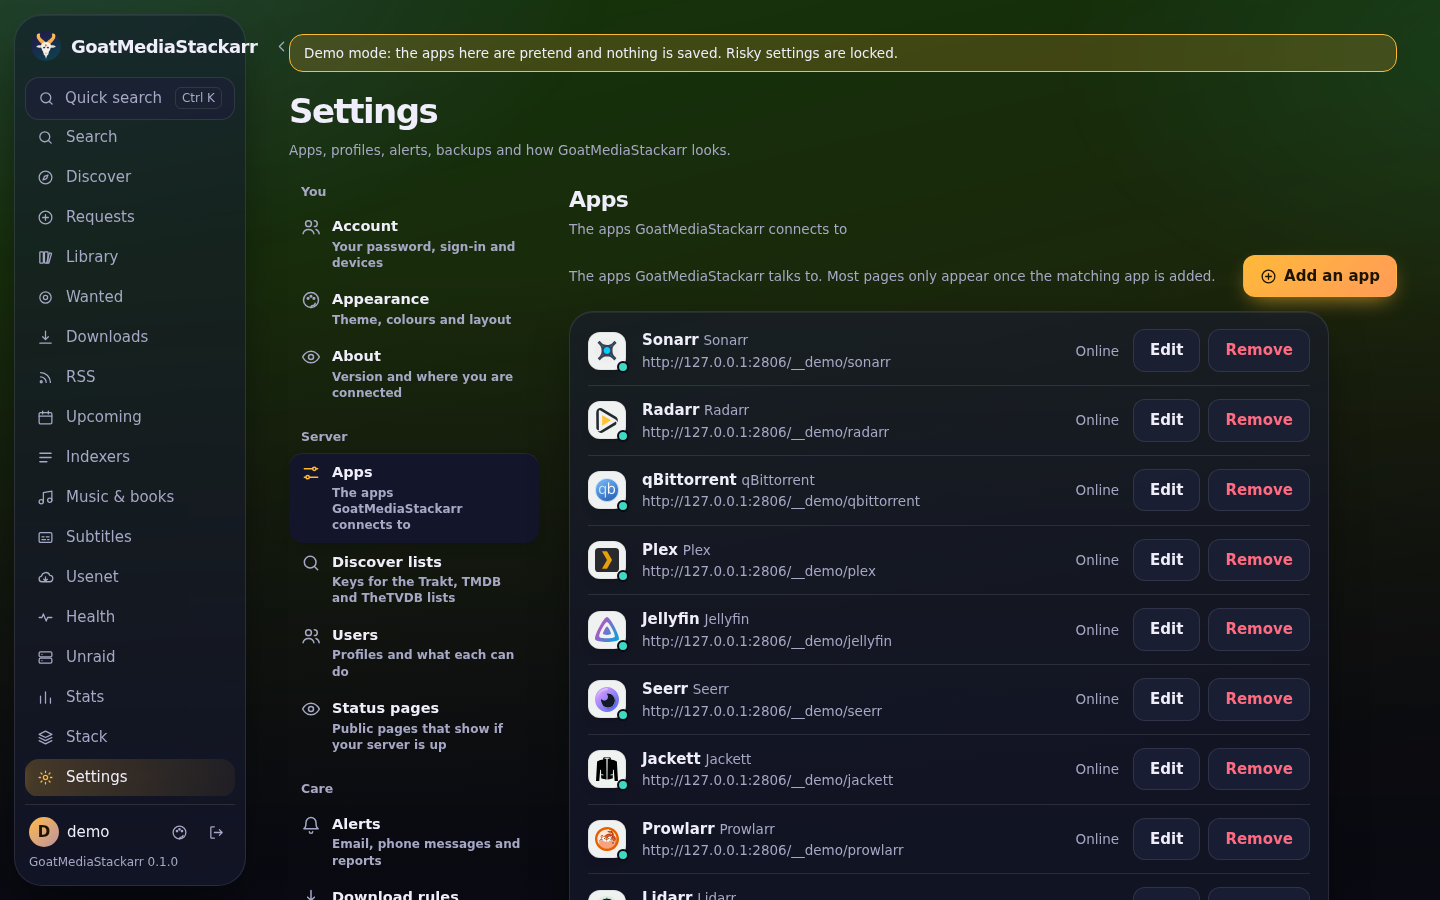
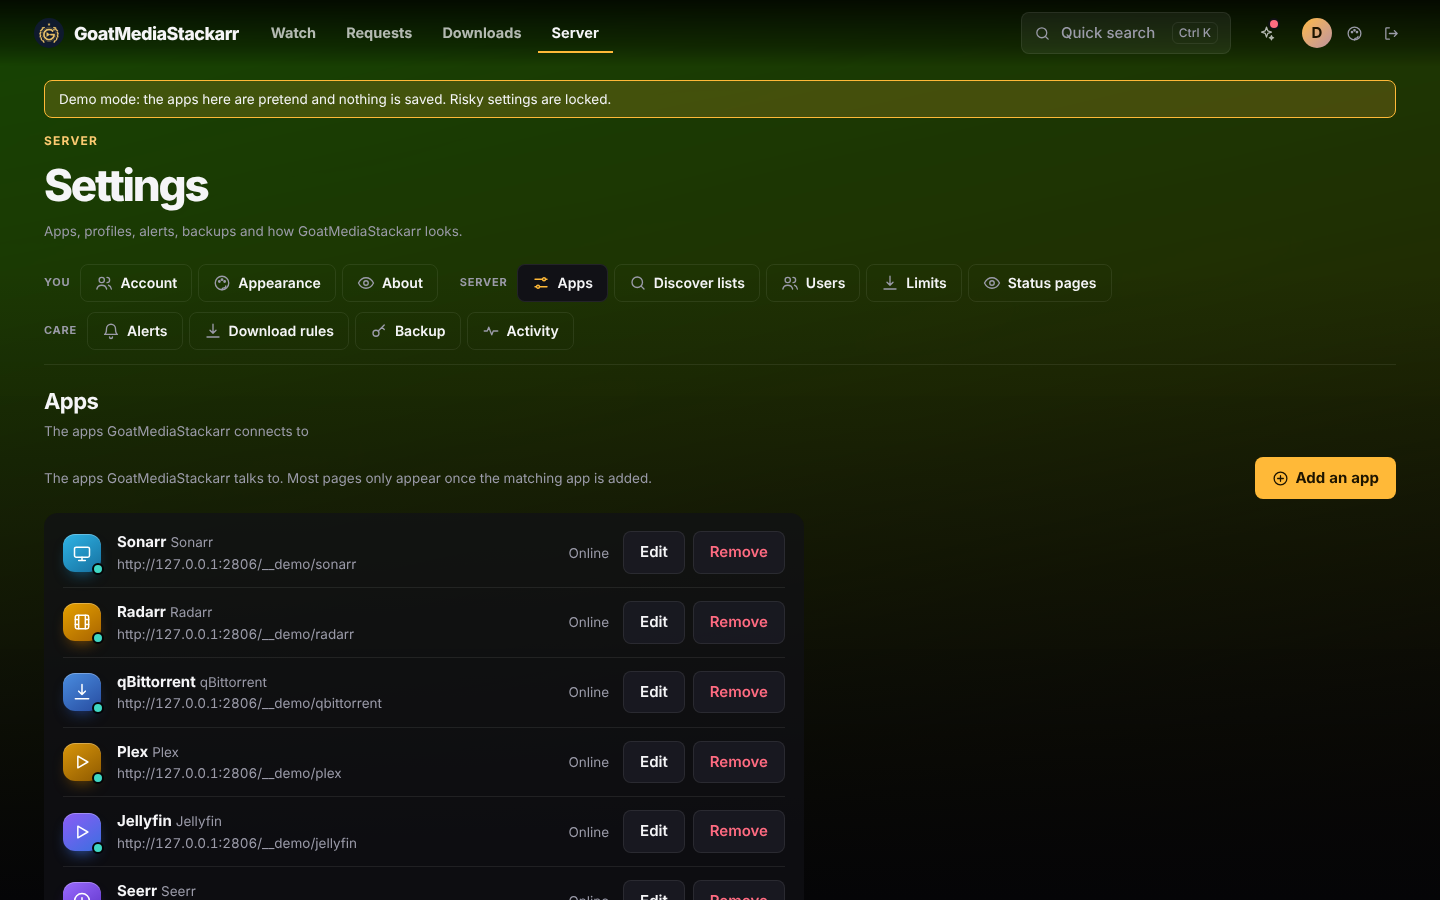
New screenshots in every style; phone layout fixes (wide selects, setup checklist); demo pictures for people; hide broken pictures
Claude-Session: https://claude.ai/code/session_01MZJJ6uf2L6wQ4qhVCAmc6f

diff --git a/scripts/screenshots.js b/scripts/screenshots.js
@@ -9,10 +9,6 @@ const PORT = 2806, BASE = `http://127.0.0.1:${PORT}`;
 const OUT = path.join(__dirname, '..', 'docs', 'screenshots');
 const sleep = ms => new Promise(r => setTimeout(r, ms));
 
-const PAGES = [
-  ['dash', 'dashboard'], ['disc', 'discover'], ['lib', 'library'], ['dl', 'downloads'], ['rq', 'requests'],
-  ['up', 'upcoming'], ['idx', 'indexers'], ['hl', 'health'], ['stats', 'stats'], ['nzb', 'usenet'], ['goat', 'stack'],
-];
 
 // Pretend container status for the Stack page: VPN connected, everything wired, logins made.
 function goatDemo() {
@@ -37,57 +33,66 @@ function goatDemo() {
   try {
     for (let i = 0; i < 100; i++) { try { if ((await fetch(BASE + '/api/health')).ok) break; } catch {} await sleep(200); }
     const browser = await chromium.launch();
-    const shot = async (page, name, fullPage = false) => { await sleep(2500); await page.screenshot({ path: path.join(OUT, name + '.png'), fullPage }); console.log('saved', name); };
+    const shot = async (page, name, fullPage = false) => { await sleep(2200); await page.screenshot({ path: path.join(OUT, name + '.png'), fullPage }); console.log('saved', name); };
+    const signIn = async ctx => {
+      const r = await ctx.request.post(BASE + '/api/login', { data: { name: 'demo', password: 'demo-mediahub' } });
+      if (!r.ok()) throw new Error('demo sign-in failed: ' + r.status());
+    };
+    // A browser with a chosen style (Appearance → Style) and theme.
+    const open = async (style, o = {}) => {
+      const ctx = await browser.newContext({ viewport: o.phone ? { width: 390, height: 844 } : { width: 1440, height: 900 }, deviceScaleFactor: o.phone ? 2 : 1,
+        isMobile: !!o.phone, hasTouch: !!o.phone, colorScheme: o.light ? 'light' : 'dark' });
+      await ctx.addInitScript(([st, th]) => { try { localStorage.setItem('mh-ui', JSON.stringify({ style: st, theme: th, seenVer: 'demo' })); } catch {} }, [style, o.light ? 'light' : 'dark']);
+      await signIn(ctx);
+      const page = await ctx.newPage(); page.on('pageerror', e => { throw e; });
+      return { ctx, page };
+    };
+    const go = async (page, url) => { await page.goto(BASE + url); await sleep(1800); };
 
     // Sign-in page, before signing in.
     const anon = await browser.newContext({ viewport: { width: 1440, height: 900 }, deviceScaleFactor: 1, colorScheme: 'dark' });
     const lp = await anon.newPage(); await lp.goto(BASE); await shot(lp, 'login'); await anon.close();
 
-    const signIn = async ctx => {
-      const r = await ctx.request.post(BASE + '/api/login', { data: { name: 'demo', password: 'demo-mediahub' } });
-      if (!r.ok()) throw new Error('demo sign-in failed: ' + r.status());
-    };
+    // A new install opens on the Stack page with its setup checklist. After "I'm done" it opens on the dashboard.
+    { const { ctx, page } = await open('cinema'); await go(page, '/'); await shot(page, 'stack-setup'); await ctx.close(); }
 
-    // Desktop pages.
-    const ctx = await browser.newContext({ viewport: { width: 1440, height: 900 }, deviceScaleFactor: 1, colorScheme: 'dark' });
-    await signIn(ctx);
-    const page = await ctx.newPage(); await page.goto(BASE); await sleep(1500);
-    // A new install opens on the Stack page with its setup checklist.
-    await shot(page, 'stack-setup');
-    for (const [tab, name] of PAGES) {
-      const btn = page.locator(`[data-t="${tab}"]:visible`).first();
-      if (!(await btn.count())) { console.log('no tab', tab); continue; }
-      await btn.click(); await shot(page, name, tab === 'goat');
-      // Every tab has its own address: the address bar must follow the click.
-      const want = { dash: '/', disc: '/discover', lib: '/library', dl: '/downloads', rq: '/requests', up: '/upcoming', idx: '/indexers', hl: '/health', stats: '/stats', nzb: '/usenet', goat: '/stack' }[tab];
-      const got = new URL(page.url()).pathname;
-      if (want && got !== want) throw new Error(`after opening ${tab} the address is ${got}, expected ${want}`);
+    // The dashboard in each of the four styles, on a computer and on a phone.
+    for (const st of ['cinema', 'dash', 'glass', 'compact']) {
+      let { ctx, page } = await open(st); await go(page, '/dashboard'); await shot(page, 'style-' + st); await ctx.close();
+      ({ ctx, page } = await open(st, { phone: true })); await go(page, '/dashboard'); await shot(page, 'phone-' + st); await ctx.close();
     }
-    // Opening an address directly shows that page, and Back returns to the previous one.
-    await page.goto(BASE + '/settings/apps'); await sleep(1500);
-    if (!(await page.locator('[data-t="set"][aria-current="page"]').count())) throw new Error('/settings/apps did not open Settings');
-    await shot(page, 'settings-apps');
-    await page.locator('[data-t="dl"]:visible').first().click(); await sleep(800);
-    await page.goBack(); await sleep(800);
-    if (new URL(page.url()).pathname !== '/settings/apps') throw new Error('Back did not return to /settings/apps');
-    // A show or movie opened from the library gets its own address; Back closes it; the address opens it again.
-    await page.goto(BASE + '/library'); await sleep(2500);
-    await page.locator('#g [data-v]').first().click(); await sleep(1500);
+    const light = await open('dash', { light: true }); await go(light.page, '/downloads'); await shot(light.page, 'style-dash-light'); await light.ctx.close();
+
+    // Every main page, in the Cinema style. Every page has its own address.
+    const { ctx, page } = await open('cinema');
+    const PAGES = [['/discover', 'discover'], ['/library', 'library'], ['/downloads', 'downloads'], ['/requests', 'requests'], ['/upcoming', 'upcoming'],
+      ['/indexers', 'indexers'], ['/health', 'health'], ['/stats', 'stats'], ['/usenet', 'usenet'], ['/stack', 'stack'], ['/settings/apps', 'settings-apps']];
+    for (const [url, name] of PAGES) {
+      await go(page, url);
+      if (new URL(page.url()).pathname !== url) throw new Error(`${url} moved to ${new URL(page.url()).pathname}`);
+      await shot(page, name, name === 'stack');
+    }
+    // The menu as a bar across the top, with a group open.
+    await go(page, '/dashboard'); await page.hover('.ng:nth-child(3) .ngh'); await sleep(400); await page.screenshot({ path: path.join(OUT, 'menu-cinema.png') }); console.log('saved menu-cinema');
+    // A movie opened from the library: its own address, cast and More like this; Back closes it.
+    await go(page, '/library'); await page.locator('#g [data-v]').first().click(); await sleep(1500);
     const item = new URL(page.url()).pathname;
     if (!/^\/library\/(tv|movies)\/[^/]+\/[^/]+$/.test(item)) throw new Error(`opening a library item gave the address ${item}`);
-    if (!(await page.locator('.ov').count())) throw new Error('the library item did not open');
     await shot(page, 'library-item');
     await page.goBack(); await sleep(800);
     if (await page.locator('.ov').count()) throw new Error('Back did not close the library item');
-    if (new URL(page.url()).pathname !== '/library') throw new Error('Back from an item did not return to /library');
-    await page.goto(BASE + item); await sleep(3000);
-    if (!(await page.locator('.ov').count())) throw new Error(`opening ${item} directly did not show the item`);
+    // A title page and an actor's filmography.
+    await page.evaluate(() => titlePage('movie', 5001, {})); await shot(page, 'title');
+    await page.locator('.ov .cst').first().click(); await shot(page, 'person');
+    await page.evaluate(() => document.querySelectorAll('.ov').forEach(o => o.close && o.close()));
+    // What's new and the style picker.
+    await page.evaluate(() => whatsNew()); await shot(page, 'whats-new');
+    await page.evaluate(() => document.querySelectorAll('.ov').forEach(o => o.close && o.close()));
+    await page.evaluate(() => appearance()); await shot(page, 'appearance');
     await ctx.close();
 
-    // Phone.
-    const phone = await browser.newContext({ viewport: { width: 390, height: 844 }, deviceScaleFactor: 2, isMobile: true, hasTouch: true, colorScheme: 'dark' });
-    await signIn(phone);
-    const pp = await phone.newPage(); await pp.goto(BASE); await shot(pp, 'phone-dashboard');
+    // Phone: the menu sheet.
+    const ph = await open('cinema', { phone: true }); await go(ph.page, '/dashboard'); await ph.page.click('#dm'); await shot(ph.page, 'phone-menu'); await ph.ctx.close();
     await browser.close();
   } finally { ui.kill(); }
 })().catch(e => { console.error(e); process.exit(1); });

diff --git a/ui/lib/demo.js b/ui/lib/demo.js
@@ -290,21 +290,25 @@ function create(opts = {}) {
     }
     if (type === 'seerr') {
       const data = m === 'POST' ? await body(req) : {};
+      // Pictures for the pretend titles and people, from this same server (so the demo shows posters without TMDB).
+      const mount = req.url.slice(0, Math.max(0, req.url.length - String(rest).length)), pic = t => `http://${req.headers.host}${mount}/seerr/poster/${encodeURIComponent(t)}`;
+      if (sub.startsWith('/poster/')) { const t = decodeURIComponent(sub.slice(8)), hue = [...t].reduce((a, c) => (a * 31 + c.charCodeAt(0)) % 360, 7);
+        res.writeHead(200, { 'Content-Type': 'image/svg+xml', 'Cache-Control': 'max-age=3600' }); return res.end(decodeURIComponent(svg(t, hue).split(',')[1])); }
       if (sub === '/api/v1/status') return json(res, { version: '2.0.0.demo' });
       if (sub === '/api/v1/search') return json(res, { results: ['Hidden Valley', 'Hidden Harbor', 'Paper Kingdoms'].filter(t => t.toLowerCase().includes(String(q.get('query') || '').toLowerCase())).map((t, i) => (i === 1 ? { mediaType: 'movie', id: 800 + i, title: t, releaseDate: '2024-03-01', overview: 'Demo result.', posterPath: '' } : { mediaType: 'tv', id: 800 + i, name: t, firstAirDate: '2022-05-01', overview: 'Demo result.', posterPath: '' })) });
       let r = sub.match(/^\/api\/v1\/tv\/(\d+)$/);
-      const cast = [['Ana Reyes', 'Captain'], ['Tom Okafor', 'Doctor'], ['Lin Park', 'Pilot']].map(([name, character], i) => ({ id: 9001 + i, name, character, profilePath: '' }));
+      const cast = [['Ana Reyes', 'Captain'], ['Tom Okafor', 'Doctor'], ['Lin Park', 'Pilot']].map(([name, character], i) => ({ id: 9001 + i, name, character, profilePath: pic(name) }));
       // "More like this": two titles in the library and one that is not.
       const rec = sub.match(/^\/api\/v1\/(movie|tv)\/(\d+)\/(recommendations|similar)$/);
       if (rec) return json(res, { page: 1, results: rec[1] === 'movie'
-        ? [{ id: 5002, mediaType: 'movie', title: 'Salt & Ember', releaseDate: '2023-02-01', posterPath: '/salt.jpg', voteAverage: 6.9 }, { id: 6100, mediaType: 'movie', title: 'Far Lantern', releaseDate: '2021-07-09', posterPath: '', voteAverage: 7.2, mediaInfo: { status: 2 } }]
-        : [{ id: 7001, mediaType: 'tv', name: 'Demo show 7001', firstAirDate: '2020-01-01', posterPath: '', voteAverage: 7.7 }] });
+        ? [{ id: 5002, mediaType: 'movie', title: 'Salt & Ember', releaseDate: '2023-02-01', posterPath: '/salt.jpg', voteAverage: 6.9 }, { id: 6100, mediaType: 'movie', title: 'Far Lantern', releaseDate: '2021-07-09', posterPath: pic('Far Lantern'), voteAverage: 7.2, mediaInfo: { status: 2 } }]
+        : [{ id: 7001, mediaType: 'tv', name: 'Demo show 7001', firstAirDate: '2020-01-01', posterPath: pic('Demo show 7001'), voteAverage: 7.7 }] });
       const pr = sub.match(/^\/api\/v1\/person\/(\d+)(\/combined_credits)?$/);
-      if (pr && !pr[2]) return +pr[1] > 9003 ? json(res, { message: 'Not found' }, 404) : json(res, { id: +pr[1], name: cast[+pr[1] - 9001].name, biography: 'An invented actor for the demo.', birthday: '1984-06-02', placeOfBirth: 'Lisbon, Portugal', profilePath: '/ana.jpg', knownForDepartment: 'Acting' });
+      if (pr && !pr[2]) return +pr[1] > 9003 ? json(res, { message: 'Not found' }, 404) : json(res, { id: +pr[1], name: cast[+pr[1] - 9001].name, biography: 'An invented actor for the demo.', birthday: '1984-06-02', placeOfBirth: 'Lisbon, Portugal', profilePath: pic(cast[+pr[1] - 9001].name), knownForDepartment: 'Acting' });
       if (pr) return json(res, { id: +pr[1],
-        cast: [{ id: 5001, mediaType: 'movie', title: 'Demo movie 5001', releaseDate: '2025-04-11', character: cast[0].character, posterPath: '', voteAverage: 7.6, voteCount: 900 },
-          { id: 7002, mediaType: 'tv', name: 'Demo show', firstAirDate: '2022-05-01', character: 'Herself', posterPath: '', voteAverage: 8.1, voteCount: 400 },
-          { id: 6200, mediaType: 'movie', title: 'Next Year', releaseDate: '', character: 'Lead', posterPath: '', voteCount: 0 }],
+        cast: [{ id: 5001, mediaType: 'movie', title: 'Demo movie 5001', releaseDate: '2025-04-11', character: cast[0].character, posterPath: pic('Demo movie 5001'), voteAverage: 7.6, voteCount: 900 },
+          { id: 7002, mediaType: 'tv', name: 'Demo show', firstAirDate: '2022-05-01', character: 'Herself', posterPath: pic('Demo show'), voteAverage: 8.1, voteCount: 400 },
+          { id: 6200, mediaType: 'movie', title: 'Next Year', releaseDate: '', character: 'Lead', posterPath: '/next.jpg', voteCount: 0 }],
         crew: [{ id: 5001, mediaType: 'movie', title: 'Demo movie 5001', releaseDate: '2025-04-11', job: 'Producer', posterPath: '' }, { id: 1, mediaType: 'person', name: 'skip me' }] });
       const mv = sub.match(/^\/api\/v1\/movie\/(\d+)$/);
       if (mv) return json(res, { id: +mv[1], title: 'Demo movie ' + mv[1], releaseDate: '2025-04-11', overview: 'An invented movie for the demo.', tagline: 'Nothing here is real.', posterPath: '', backdropPath: '', voteAverage: 7.6, runtime: 118,

diff --git a/ui/public/index.html b/ui/public/index.html
@@ -437,6 +437,8 @@ main.sx #m .panel{max-width:760px!important}
 <link rel="stylesheet" href="/statuskit.css"><link rel="stylesheet" href="/cinema.css"><link rel="stylesheet" href="/styles.css"><script src="/statuskit.js"></script><script src="/scenes.js"></script><script src="/cinema.js"></script><script src="/qr.js"></script>
 <script>
 const $=s=>document.querySelector(s);
+// A picture that cannot load (an address that is gone, no internet) leaves an empty space instead of a broken-image sign.
+document.addEventListener('error',e=>{const t=e.target;if(t&&t.tagName==='IMG')t.classList.add('nopic')},true);
 let liveFns=[];
 const tick=(f,ms)=>{liveFns.push(f);return setInterval(()=>{if(!document.hidden)f()},ms)};
 document.addEventListener('visibilitychange',()=>{if(!document.hidden)liveFns.forEach(f=>{try{f()}catch{}})});
@@ -2560,7 +2562,7 @@ async function goatView(){
     :vpn.enabled?`<span class="pill bad">${vpn.state==='waiting'?'Waiting for a VPN file':vpn.state==='connecting'?'Connecting…':'Not connected'}</span>`:'<span class="pill">Off</span>';
   const hasPlex=st.engines.some(e=>e.key==='plex'),plexOk=steps.plex&&steps.plex.ok,N=st.counts||{};
   const done=S.setup&&S.setup.done;
-  const check=(ok,label,hint)=>`<div class="row" style="gap:10px;margin:6px 0"><span class="pill ${ok?'ok':''}" style="min-width:26px;justify-content:center">${ok?ic('check'):'·'}</span><span><b>${label}</b>${hint?`<div class="mute">${hint}</div>`:''}</span></div>`;
+  const check=(ok,label,hint)=>`<div class="row" style="gap:10px;margin:8px 0;flex-wrap:nowrap;align-items:flex-start"><span class="pill ${ok?'ok':''}" style="min-width:30px;display:inline-grid;place-items:center;flex:none;margin-top:1px">${ok?ic('check'):'·'}</span><span class="grow"><b>${label}</b>${hint?`<div class="mute">${hint}</div>`:''}</span></div>`;
   // Linking Plex to an account has its own item below, so it does not hold back this one.
   const wSteps=Object.entries(steps).filter(([k])=>k!=='plex');
   const wiredAll=!wiring&&wSteps.length>0&&wSteps.every(([,x])=>x.ok);

diff --git a/ui/test/profile.test.js b/ui/test/profile.test.js
@@ -102,7 +102,8 @@ test('person page: who they are and everything they were in, newest first, with 
     const { k } = w;
     const p = (await k.get('/api/person?id=9001')).data;
     assert.equal(p.name, 'Ana Reyes'); assert.equal(p.born, '1984-06-02'); assert.equal(p.place, 'Lisbon, Portugal'); assert.equal(p.known, 'Acting');
-    assert.equal(p.photo, 'https://image.tmdb.org/t/p/h632/ana.jpg'); assert.ok(p.seerr);
+    assert.match(p.photo, /^http:\/\/127\.0\.0\.1:\d+\/seerr\/poster\/Ana%20Reyes$/, 'a full address is passed on as it is'); assert.ok(p.seerr);
+    assert.equal(p.credits.find(x => x.id === 6200).poster, 'https://image.tmdb.org/t/p/w342/next.jpg', 'a TMDB path becomes a TMDB address');
     assert.deepEqual(p.credits.map(x => [x.type, x.id]), [['movie', 6200], ['movie', 5001], ['tv', 7002]], 'not dated yet first, then newest; people are left out');
     const mv = p.credits.find(x => x.id === 5001);
     assert.equal(mv.role, 'Captain, Producer'); assert.equal(mv.inLib, true); assert.equal(p.credits.find(x => x.id === 6200).inLib, false);

diff --git a/ui/public/styles.css b/ui/public/styles.css
@@ -14,9 +14,11 @@ html[data-rail=min] .ng{padding:4px 0;border-bottom:1px solid var(--line)}
 .phg{display:flex;flex-direction:column}
 .phk{font-size:12px;font-weight:720;letter-spacing:.1em;text-transform:uppercase;color:var(--link);margin-bottom:2px}
 .mg{flex-basis:100%;margin-top:6px}.mg .ngh{padding:8px 2px 6px}
+.row>label,.row>select{min-width:0;max-width:100%}select{max-width:100%;text-overflow:ellipsis}
 .brand .t{min-width:0;overflow:hidden;text-overflow:ellipsis;white-space:nowrap}
 .qs span{white-space:nowrap;overflow:hidden;text-overflow:ellipsis}
 @media(max-width:860px){.side .wn,.side .ver{display:none}}
+img.nopic{visibility:hidden}
 /* What's new */
 .wnh{display:flex;gap:14px;align-items:center;margin:6px 0 18px}
 .wni{display:grid;place-items:center;width:48px;height:48px;border-radius:16px;background:color-mix(in srgb,var(--accent) 18%,transparent);color:var(--accent);flex:none}.wni .ic{width:26px;height:26px}

diff --git a/android/app/src/test/java/com/bdlnaredi/goatstack/ScreensTest.kt b/android/app/src/test/java/com/bdlnaredi/goatstack/ScreensTest.kt
@@ -133,7 +133,7 @@ class ScreensTest {
         openFromMore("Upcoming"); waitFor("Being downloaded"); shot("10-upcoming"); back()
         openFromMore("Stack"); waitFor("VPN connected"); shot("11-stack"); back()
         openFromMore("Settings"); waitFor("Appearance"); shot("12-settings")
-        tap("Paper"); settle(500); shot("13-settings-paper")
+        scrollTo("Light and warm"); tap("Paper"); settle(500); shot("13-settings-paper")
         back(); tap("Home"); waitFor("Playing now"); shot("14-home-paper")
         for (t in listOf("midnight", "aurora", "ember")) {
             compose.runOnUiThread { state.setTheme(t) }; compose.waitForIdle(); shot("15-home-$t")
